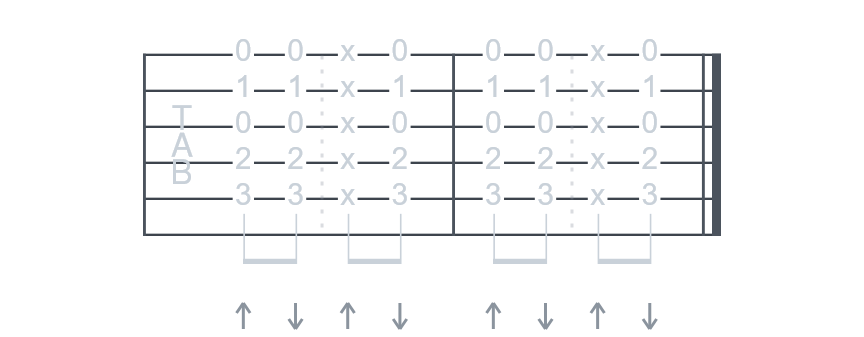
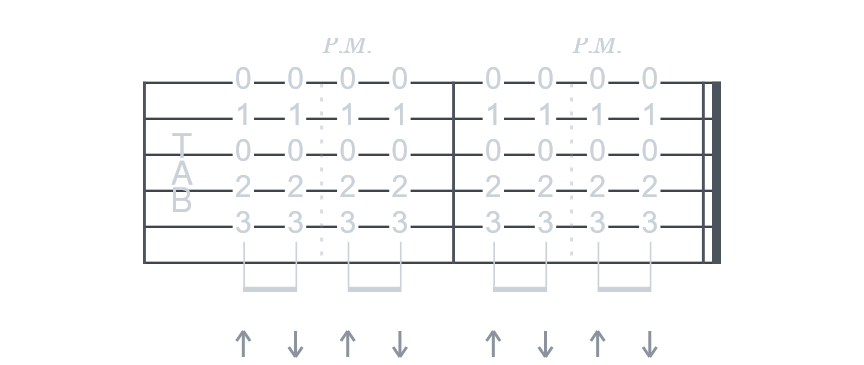
feat(scores): 切音改成制谱软件的 P.M. 写法（保留品数 + 虚线）

diff --git a/packages/core/src/alphatex.ts b/packages/core/src/alphatex.ts
@@ -22,13 +22,15 @@ export interface AlphaTexOptions {
   title?: string;
   /**
    * 切音（右手把弦闷掉）怎么标。
-   * - `dead`：音头画成 ×（默认）——alphaTex 里就是 `x.5`，谱面上是叉号，和切音的实际发声最接近；
-   * - `plain`：不额外标，谱面只有扫弦箭头。
+   * - `palm`：制谱软件的写法——保留品数，在音符上加 `{pm}`，alphaTab 会在谱面上方写
+   *   `P.M.` 并拉一条虚线到闷音结束（Guitar Pro 就是这么标的），默认值；
+   * - `dead`：音头画成 ×（`x.5`），只在不想用 P.M. 时才用；
+   * - `plain`：不标，谱面只有扫弦箭头。
    *
-   * 试过 `{pm}`（P.M. palm mute），但 alphaTab 的 beat property 白名单里没有它，
-   * 整条 tex 会解析失败（`Error parsing alphaTex`），所以不用。
+   * 注意 `{pm}` 是**音符属性**，要写在音符后面、时值前面：`3.5{pm}.4`、`(3.5{pm} 2.4{pm}).8`。
+   * 写成 `(3.5 2.4).8{pm}` 会被当成 beat property，alphaTab 白名单里没有它，整条 tex 解析失败。
    */
-  mute?: "dead" | "plain";
+  mute?: "palm" | "dead" | "plain";
 }
 
 /** 一拍等于几个四分音符：4/4 是 1，6/8 是 0.5。 */
@@ -119,16 +121,19 @@ export function onsetsOf(notes: TabNote[]): Onset[] {
     }));
 }
 
-function noteText(note: TabNote, mute: "dead" | "plain"): string {
-  // 只有切音/闷音画 x；不弹的弦根本不会出现在 notes 里（那是留空）。
-  if (mute === "dead" && note.muted) return `x.${note.s}`;
+function noteText(note: TabNote, mute: "palm" | "dead" | "plain"): string {
+  if (note.muted) {
+    // {pm} 必须写在品数后面、时值前面（时值由上层统一追加）。
+    if (mute === "palm") return `${note.f}.${note.s}{pm}`;
+    if (mute === "dead") return `x.${note.s}`;
+  }
   return `${note.f}.${note.s}`;
 }
 
 function beatText(
   onset: Onset,
   token: string,
-  opts: { dotted: boolean; tuplet: boolean; mute: "dead" | "plain" },
+  opts: { dotted: boolean; tuplet: boolean; mute: "palm" | "dead" | "plain" },
 ): string {
   const body =
     onset.notes.length > 1
@@ -162,7 +167,7 @@ function tieText(onset: Onset, token: string, dotted: boolean): string {
  * 返回的文本可以直接丢给 `new alphaTab.AlphaTabApi(el, { core: { tex } })`。
  */
 export function tabToAlphaTex(tab: Tab, options: AlphaTexOptions = {}): string {
-  const mute = options.mute ?? "dead";
+  const mute = options.mute ?? "palm";
   const bpm = options.bpm ?? tab.bpm?.[0] ?? 80;
   const perBeat = quartersPerBeat(tab);
   const onsets = onsetsOf(tab.notes);

diff --git a/packages/core/test/core.test.ts b/packages/core/test/core.test.ts
@@ -1795,9 +1795,19 @@ test("alphaTex：附点、切音、三连音都按 alphaTab 的语法写", () =>
   assert.ok(!dottedTex.includes(".8."), "不要再写尾点形式 `.8.`，它后面跟花括号会解析失败");
   assert.ok(!/\{\w+\}\s+\{/.test(dottedTex), "一拍不能带两个花括号");
 
-  // 切音：音头画成 ×
+  // 切音：默认按制谱软件写 P.M.（品数保留、音符属性 `{pm}`），只有显式 dead 才画 ×
   const muted = tabOf([n(5, 3, 0, 1, { muted: true }), n(4, 2, 1, 1), n(3, 0, 2, 1), n(2, 1, 3, 1)]);
-  assert.ok(tabToAlphaTex(muted).includes("x.5"), "切音没有写成死音音头");
+  const mutedTex = tabToAlphaTex(muted);
+  assert.ok(mutedTex.includes("3.5{pm}"), `切音没有写成 P.M. 音符属性：${mutedTex}`);
+  assert.ok(!mutedTex.includes("x.5"), `默认不该再画死音：${mutedTex}`);
+  assert.ok(!/\.4\{pm\}/.test(mutedTex), `{pm} 写在时值后面会被当成 beat property，解析失败：${mutedTex}`);
+  // 和弦里每个音都要带 `{pm}`，否则那条 P.M. 虚线不完整
+  const mutedChord = tabOf([n(5, 3, 0, 1, { muted: true }), n(4, 2, 0, 1, { muted: true }), n(3, 0, 0, 1, { muted: true })]);
+  assert.ok(
+    tabToAlphaTex(mutedChord).includes("(3.5{pm} 2.4{pm} 0.3{pm})"),
+    `和弦切音没逐音写 {pm}：${tabToAlphaTex(mutedChord)}`,
+  );
+  assert.ok(tabToAlphaTex(muted, { mute: "dead" }).includes("x.5"), "显式 dead 模式才画死音");
 
   // 三连音：一组三个音，只在组头写一次 `{tu 3}`
   const triplets = tabOf([

diff --git a/apps/web/src/pages/Rhythm.tsx b/apps/web/src/pages/Rhythm.tsx
@@ -272,8 +272,9 @@ export default function Rhythm() {
         附点切分都是原样，没有被压成一样的格子。
       </p>
       <p className="rhythm-legend">
-        看图：<b>↑</b> 下扫（6 弦 → 1 弦）、<b>↓</b> 上扫（1 弦 → 6 弦）；<b>x</b> 是切音（闷音，
-        整拍按死发「嗒」）；C 和弦第 6 弦不弹，按六线谱惯例<b>留空</b>，不是闷音。
+        看图：<b>↑</b> 下扫（6 弦 → 1 弦）、<b>↓</b> 上扫（1 弦 → 6 弦）；
+        <b>P.M.</b> 是切音（palm mute，右手掌根压在琴桥上，那一拍按死发「嗒」）；
+        C 和弦第 6 弦不弹，按六线谱惯例<b>留空</b>，不是闷音。
       </p>
       <div className="drill-grid">
         {strums.map((drill) => {

diff --git a/apps/web/src/lib/scores-version.ts b/apps/web/src/lib/scores-version.ts
@@ -1,3 +1,3 @@
 // 由 `pnpm --filter @guitar/web run gen:scores` 生成，不要手改。
 // 谱面图片的内容指纹：图片地址带上它，重新生成后浏览器才会重新下载。
-export const SCORES_VERSION = "3b4624d6";
+export const SCORES_VERSION = "ce41cbf7";

diff --git a/docs/ux.md b/docs/ux.md
@@ -457,8 +457,8 @@ C 大调的八个音上（5 弦 3 品 C、4 弦 2 品 E、3 弦 0 品 G、2 弦 
 
 - **方向怎么读**：板书把方向画在六线谱上，1 弦在最上面，所以谱面上「朝上」的箭头其实是**下扫**。
   数据里已经换算成 D（下）/ U（上），卡片上的箭头是按常识画的 ↓ / ↑，不用自己再翻一次；
-- **切音**：板上的圆点是右手切音（闷掉），谱面画成箭头正上方的橙色小点，卡片上标「切音 N 处」；
-  空拍和切音是两件事——空拍是这半拍不出声、手照挥，切音是扫下去但压住弦；
+- **切音**：板上的圆点是右手切音（闷掉），谱面上方写 `P.M.` 并拉一条虚线盖住那一拍（品数保留），
+  卡片上标「切音 N 处」；空拍和切音是两件事——空拍是这半拍不出声、手照挥，切音是扫下去但压住弦；
 - **拍号**：练习 2 是 3/4，练习 14 是 6/8（一小节 6 拍，一拍一个八分，节拍器正好一下一格），其余都是 4/4；
 - **节奏按板上真实的音型写**：每一条的起拍都从板上的**符干位置 + 符梁分组**读出来，
   十六分就是十六分——「前八后十六」写作 `[0, 2, 3]`、「十六分四连」写作 `[0, 1, 2, 3]`、
@@ -481,11 +481,14 @@ C 大调的八个音上（5 弦 3 品 C、4 弦 2 品 E、3 弦 0 品 G、2 弦 
   `core.test.ts` 里有一条测试按小节累加时值，扫弦 24 条、跟读 16 条、时值 10 条全过；
 - **每拍分割线**由工具画进图里（`beatLines: true`）：alphaTab 只画小节线，
   拍线是按 `boundsLookup` 里每拍的 tick 位置算出拍界、再取两侧音符的中点画上去的；
-- 切音点用**死音音头** `x.5`（这一拍的弦全画成 `x`，表示闷音），扫弦方向用 `{bd}` / `{bu}`（下扫 / 上扫）——
-  alphaTab 把下扫画成向上挑的箭头，因为六线谱 1 弦在上，方向是对的；
-- **`x` 只表示闷音/切音，不表示「这根弦不弹」**（v0.21.5 修正）：六线谱里不弹的弦就是**留空**，
-  那个 `x` 是和弦图（`x32010`）的记法，两种符号混用读谱的人分不出来。`C` 和弦第 6 弦因此留空；
-  v0.21.2 曾给空弦补过「占位 x」（`TabNote.ghost`），v0.21.5 已删掉这个字段与相关代码；
+- 切音写成**音符属性** `{pm}`（palm mute，v0.21.6 起）：alphaTab 会在谱面上方写 `P.M.`、
+  拉一条虚线罩住闷音的那一拍，品数照旧保留——制谱软件（Guitar Pro）就是这么标的，比把音头画成 `x` 好读。
+  `{pm}` 必须写在**品数后面、时值前面**（`3.5{pm}.4`、`(3.5{pm} 2.4{pm}).8`），
+  写成 beat property（`(3.5 2.4).4{pm}`）会报 `Unrecognized property 'pm'`，整条 tex 解析失败、谱面空白；
+  扫弦方向用 `{bd}` / `{bu}`（下扫 / 上扫），alphaTab 把下扫画成向上挑的箭头，因为六线谱 1 弦在上，方向是对的；
+- **`x` 不再用来标切音**：`tabToAlphaTex()` 的 `mute` 选项默认是 `palm`，只有显式传 `dead` 才画死音音头 `x.5`。
+  六线谱里不弹的弦就是**留空**——那个 `x` 是和弦图（`x32010`）的记法，两种符号混用读谱的人分不出来。
+  `C` 和弦第 6 弦因此留空；v0.21.2 曾给空弦补过「占位 x」（`TabNote.ghost`），v0.21.5 已删掉这个字段与相关代码；
 - **扫弦方向、切音、三连音、附点**都在 `tabToAlphaTex()` 里翻译，谱面上的符号是 alphaTab 画的；
 - **谱面的粗细**：alphaTab 的默认比例尺是给整页五线谱用的，直接缩到卡片里会显得笨重，
   所以 `gen-scores.ts` 传了一组参数：`tabFontSize: 15` + `engraving.tabLineSpacing: 18`

diff --git a/CHANGELOG.md b/CHANGELOG.md
@@ -9,6 +9,17 @@
 - 和弦与音阶试听（目前音频只有节拍器）
 - 桌面 / 安卓壳（不排期，需先装工具链）
 
+## [0.21.6] - 2026-11-09
+
+### Changed
+- **切音改成制谱软件的 `P.M.` 写法**：原来把切音那一拍的音头画成 `x.5`（死音），现在改成 alphaTab
+  原生的 palm mute——保留品数，在音符上加 `{pm}`，谱面上方写 `P.M.` 并拉一条虚线罩住闷音的那一拍，
+  读谱的人一眼能看出「这里闷住」，也符合 Guitar Pro 的习惯。`tabToAlphaTex()` 的 `mute` 选项默认
+  从 `dead` 改成 `palm`（`dead` / `plain` 仍可用），core 升到 `0.16.2`。
+- 扫弦练习区块的图例改成 `P.M.` 的说法，`docs/ux.md` 的「切音怎么标」同步改写，并补上语法坑：
+  `{pm}` 必须写在品数后、时值前（`3.5{pm}.4`），写成 beat property（`(3.5 2.4).4{pm}`）会报
+  `Unrecognized property 'pm'`，整条 tex 解析失败。
+
 ## [0.21.5] - 2026-11-09
 
 ### Changed

diff --git a/docs/versioning.md b/docs/versioning.md
@@ -19,7 +19,7 @@ SemVer：`MAJOR.MINOR.PATCH`
 | `packages/core` | 独立 | 只在自己的 API 变化时动；新增导出算 MINOR |
 | `plugins/dsh-guitar` | 独立 | 同上；插件与产品发版节奏不同，改插件才动 |
 
-当前：产品 `0.21.5`，core `0.16.1`，插件 `0.5.1`（v0.19.0 给 core 加了 `strumTab`（按音位排谱），算 MINOR；
+当前：产品 `0.21.6`，core `0.16.2`，插件 `0.5.1`（v0.19.0 给 core 加了 `strumTab`（按音位排谱），算 MINOR；
 v0.19.6 只是排版与记法，core 不动；v0.20.0 换渲染器、core 只多了一个 `alphatex.ts`（新导出 `tabToAlphaTex` 等），
 按「新增导出算 MINOR」本该升到 0.16.0，但 alphaTex 只是渲染适配层、不属于乐理 API，这次按 PATCH 处理；
 v0.21.2 给 `TabNote` 加了 `ghost`（弦不弹、谱上画 x），向下兼容，core 升到 `0.16.0`；
